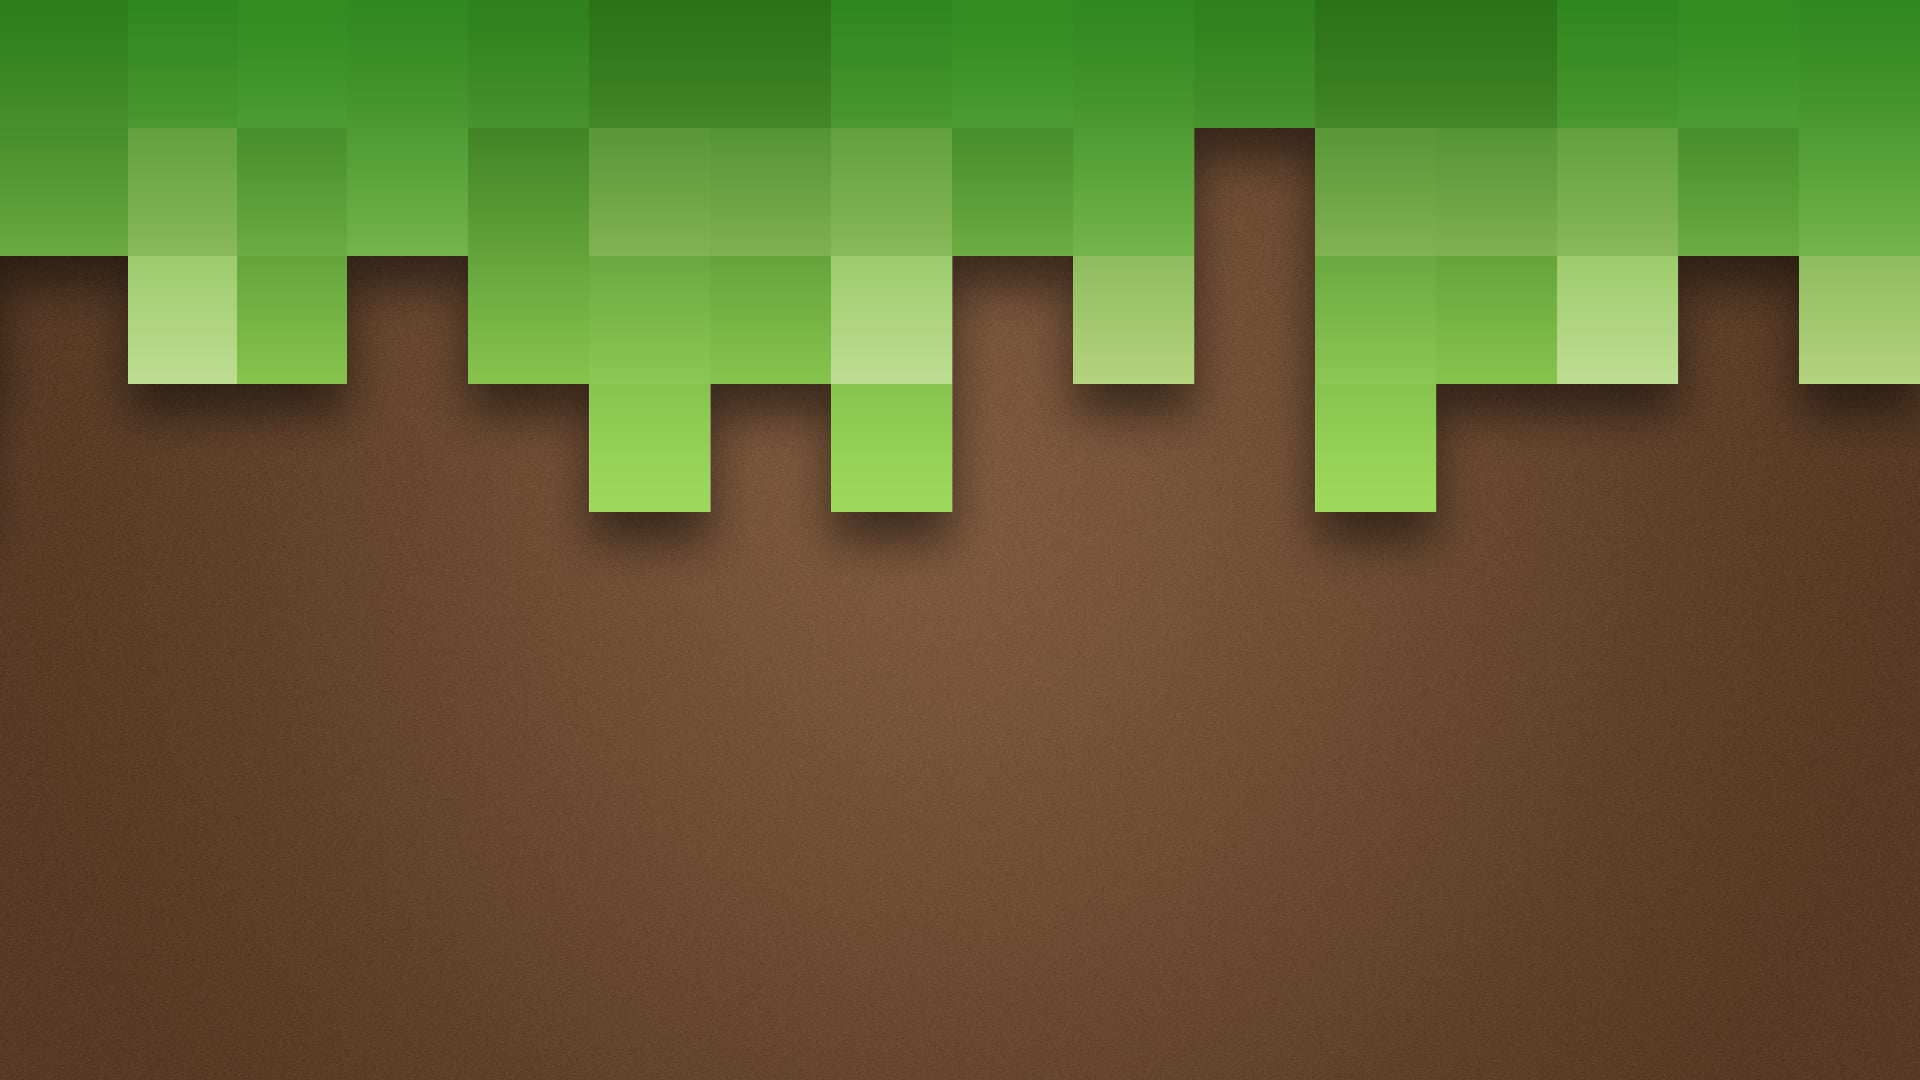
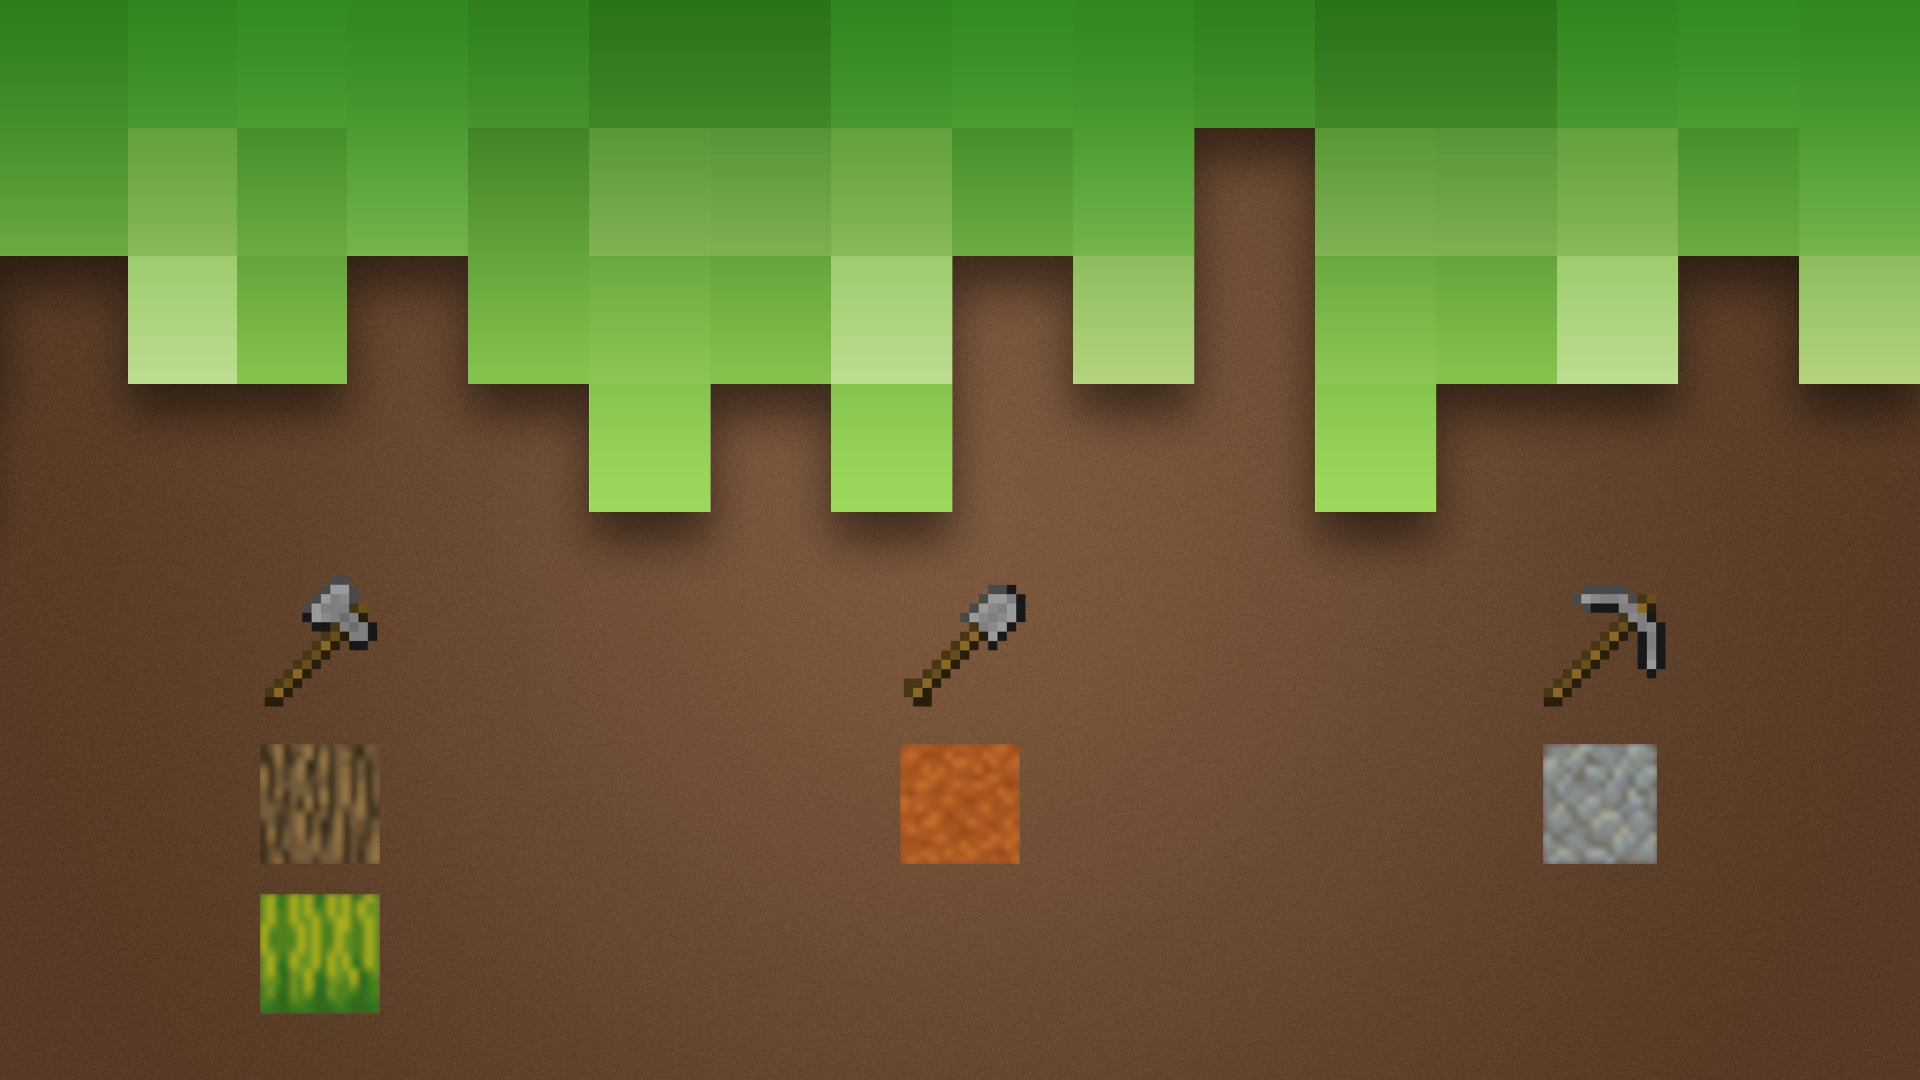
did really cool things

diff --git a/js/script.js b/js/script.js
@@ -7,16 +7,33 @@ document.querySelectorAll('.page').forEach((page) => {
   pages[page.id] = page;
 });
 
+const root = document.querySelector(':root');
+
+const current = {
+  tool: '',
+};
+
 // Game consts
-// Game
 let rows;
 let cols;
 let world = [];
+const toolsbox = document.querySelector('.tools');
 
+const tools = {
+  axe: {
+    url: './images/tools/treeAxe.png',
+  },
+  pickaxe: {
+    url: './images/tools/stonePickaxe.png',
+  },
+  shovel: {
+    url: './images/tools/dirtShovel.png',
+  },
+};
 const blocks = {
   dirt: {
     height: 0,
-    tool: '',
+    tool: 'shovel',
     drawDirt() {
       const dirtHeight = Math.ceil(rows / 4 > 4 ? rows / 4 : 4);
       for (let row = 0; row < dirtHeight; row += 1) {
@@ -28,7 +45,7 @@ const blocks = {
     },
   },
   tree: {
-    tool: '',
+    tool: 'axe',
     drawTree(row, col) {
       for (let logRow = row; logRow < row + 4; logRow += 1) {
         world[logRow][col + 3] = 'log';
@@ -42,7 +59,7 @@ const blocks = {
     },
   },
   stone: {
-    tool: '',
+    tool: 'pickaxe',
     drawStone(startRow, startCol, width, height) {
       for (let row = startRow; row <= startRow + height; row += 1) {
         for (let col = startCol; col <= startCol + width; col += 1) {
@@ -70,27 +87,6 @@ function switchPage(e) {
     pages.explanation.classList.add('hidden');
   }
 }
-
-function eventListenersSwitch(e) {
-  if (window.location.pathname.match(/game/)) {
-    startWorldMatrix();
-    blocks.dirt.drawDirt();
-    blocks.tree.drawTree(blocks.dirt.height, 2);
-    blocks.stone.drawStone(blocks.dirt.height, 10, 2, 2);
-    for (let row = 0; row < rows; row += 1) {
-      for (let col = 0; col < cols; col += 1) {
-        drawCell(row, col);
-      }
-    }
-  } else {
-    welcomeBtns['welcome__btn-exit'].addEventListener('click', exit);
-    welcomeBtns['welcome__btn-start'].addEventListener('click', start);
-    welcomeBtns['welcome__btn-explanation'].addEventListener('click', switchPage);
-    welcomeBtns['welcome__btn-back'].addEventListener('click', switchPage);
-  }
-}
-
-window.addEventListener('load', eventListenersSwitch);
 const worldContainer = document.querySelector('.game__world');
 
 // game
@@ -116,3 +112,43 @@ function drawCell(row, col) {
   cell.setAttribute('data-col', `${col}`);
   worldContainer.prepend(cell);
 }
+
+function drawWorld() {
+  for (let row = 0; row < rows; row += 1) {
+    for (let col = 0; col < cols; col += 1) {
+      drawCell(row, col);
+    }
+  }
+}
+
+function toolChange(e) {
+  [...toolsbox.children].forEach((toolwrapper) => {
+    if (toolwrapper === e.target.parentElement && e.target.checked) {
+      toolwrapper.classList.add('--bg-color-hover-btn');
+      current.tool = e.target.id;
+      document.body.style.cursor = `url(${tools[current.tool].url}), auto`;
+    } else {
+      toolwrapper.classList.remove('--bg-color-hover-btn');
+    }
+  });
+}
+
+function eventListenersSwitch(e) {
+  if (window.location.pathname.match(/game/)) {
+    startWorldMatrix();
+    blocks.dirt.drawDirt();
+    blocks.tree.drawTree(blocks.dirt.height, 2);
+    blocks.stone.drawStone(blocks.dirt.height, 10, 2, 2);
+    drawWorld();
+    toolsbox.querySelector(`input[type='radio']`).click();
+    welcomeBtns['reset-world'].addEventListener('click', drawWorld);
+    toolsbox.addEventListener('change', toolChange);
+  } else {
+    welcomeBtns['welcome__btn-exit'].addEventListener('click', exit);
+    welcomeBtns['welcome__btn-start'].addEventListener('click', start);
+    welcomeBtns['welcome__btn-explanation'].addEventListener('click', switchPage);
+    welcomeBtns['welcome__btn-back'].addEventListener('click', switchPage);
+  }
+}
+
+window.addEventListener('load', eventListenersSwitch);

diff --git a/game.html b/game.html
@@ -20,7 +20,40 @@
   <body>
     <div class="page game">
       <div class="game__world"></div>
-      <div class="game__toolkit"></div>
+      <div class="game__toolkit">
+        <div class="tools">
+          <label class="tool__wrapper" for="axe"
+            ><input type="radio" name="tool" id="axe" class="hidden" />
+            <div class="tool__photo"></div>
+            <div class="tool__name --font-size-1-4rem --txt-color-primary">Axe</div>
+          </label>
+          <label class="tool__wrapper" for="shovel"
+            ><input type="radio" name="tool" id="shovel" class="hidden" />
+            <div class="tool__photo"></div>
+            <div class="tool__name --font-size-1-4rem --txt-color-primary">Shovel</div>
+          </label>
+          <label class="tool__wrapper" for="pickaxe"
+            ><input type="radio" name="tool" id="pickaxe" class="hidden" />
+            <div class="tool__photo"></div>
+            <div class="tool__name --font-size-1-4rem --txt-color-primary">Pickaxe</div>
+          </label>
+        </div>
+        <div class="inventory"></div>
+        <div class="game__btn-wrapper">
+          <button
+            class="welcome__btn --txt-color-secondary --txt-color-primary --font-size-2rem --padding-10px"
+            id="reset-world"
+          >
+            Reset World
+          </button>
+          <button
+            class="welcome__btn --txt-color-secondary --txt-color-primary --font-size-2rem --padding-10px"
+            id="reset-game"
+          >
+            Reset Game
+          </button>
+        </div>
+      </div>
     </div>
     <script src="./js/script.js"></script>
   </body>

diff --git a/css/style.css b/css/style.css
@@ -38,7 +38,7 @@ body {
 
 /* TODO Write the explanation and update bg */
 .explanation {
-  background: url("../images/explanationBG.jpg") center bottom/cover no-repeat;
+  background: url("../images/explanationBG1.jpg") center bottom/cover no-repeat;
   display: flex;
   padding: 0 25px 25px 0;
   align-items: flex-end;
@@ -87,4 +87,60 @@ body {
 
 [data-type="dirt"] {
   background-image: url("../images/blocks/dirtBlock.png");
+}
+
+/* tools */
+.tools {
+  display: grid;
+  grid-template-columns: repeat(2, 1fr);
+  gap: 10px;
+  width: 100%;
+  height: 150px;
+  padding: 0 10px;
+}
+
+.tool__wrapper {
+  margin: 10px 0;
+  width: 100%;
+  border: 1px solid var(--secondary-color);
+  display: grid;
+  justify-content: center;
+  grid-template-rows: 1fr max-content;
+  background: center center/contain no-repeat var(--secondary-color);
+}
+
+.tool__wrapper:hover {
+  cursor: pointer;
+  background-color: #555555ea;
+}
+
+.tool__photo {
+  width: 100%;
+  background: center center/contain no-repeat;
+}
+
+.tool__text {
+  text-align: center;
+}
+
+[for="axe"] > .tool__photo {
+  background-image: url("../images/tools/treeAxe.png");
+}
+
+[for="pickaxe"] > .tool__photo {
+  background-image: url("../images/tools/stonePickaxe.png");
+}
+
+[for="shovel"] > .tool__photo {
+  background-image: url("../images/tools/dirtShovel.png");
+}
+
+/* game btns */
+.game__btn-wrapper {
+  display: grid;
+  grid-template-rows: repeat(2, max-content);
+  align-items: center;
+  justify-content: center;
+  width: 100%;
+  gap: 10px;
 }

diff --git a/index.html b/index.html
@@ -21,19 +21,19 @@
     <div id="welcome" class="welcome page">
       <div class="welcome__btn-wrapper">
         <button
-          class="welcome__btn --bg-color-btn --txt-color-btn --font-size-3rem --padding-10px"
+          class="welcome__btn --txt-color-secondary --txt-color-primary --font-size-3rem --padding-10px"
           id="welcome__btn-start"
         >
           Start
         </button>
         <button
-          class="welcome__btn --bg-color-btn --txt-color-btn --font-size-3rem --padding-10px"
+          class="welcome__btn --txt-color-secondary --txt-color-primary --font-size-3rem --padding-10px"
           id="welcome__btn-explanation"
         >
           Explain
         </button>
         <button
-          class="welcome__btn --bg-color-btn --txt-color-btn --font-size-3rem --padding-10px"
+          class="welcome__btn --txt-color-secondary --txt-color-primary --font-size-3rem --padding-10px"
           id="welcome__btn-exit"
         >
           Close
@@ -42,7 +42,7 @@
     </div>
     <div id="explanation" class="explanation page hidden">
       <button
-        class="welcome__btn --bg-color-btn --txt-color-btn --font-size-3rem --padding-10px"
+        class="welcome__btn --txt-color-secondary --txt-color-primary --font-size-3rem --padding-10px"
         id="welcome__btn-back"
       >
         Go Back

diff --git a/css/utilities.css b/css/utilities.css
@@ -3,17 +3,29 @@
 }
 
 /* colors */
-.--bg-color-btn {
-  background-color: var(--bg-btn);
+.--txt-color-secondary {
+  background-color: var(--secondary-color);
 }
 
-.--txt-color-btn {
-  color: var(--txt-btn);
+.--txt-color-primary {
+  color: var(--primary-color);
+}
+
+.--bg-color-hover-btn {
+  background-color: var(--hover-btn) !important;
 }
 
 /* font size */
 .--font-size-3rem {
   font-size: 3rem;
+}
+
+.--font-size-2rem {
+  font-size: 2rem;
+}
+
+.--font-size-1-4rem {
+  font-size: 1.4rem;
 }
 
 /* margin & padding */

diff --git a/css/variables.css b/css/variables.css
@@ -1,6 +1,6 @@
 :root {
-  --txt-btn: #aaaaaa;
-  --bg-btn: #555555;
+  --primary-color: #aaaaaa;
+  --secondary-color: #555555;
   --hover-btn: #087008;
   --sky: #7ec0ee;
 }
